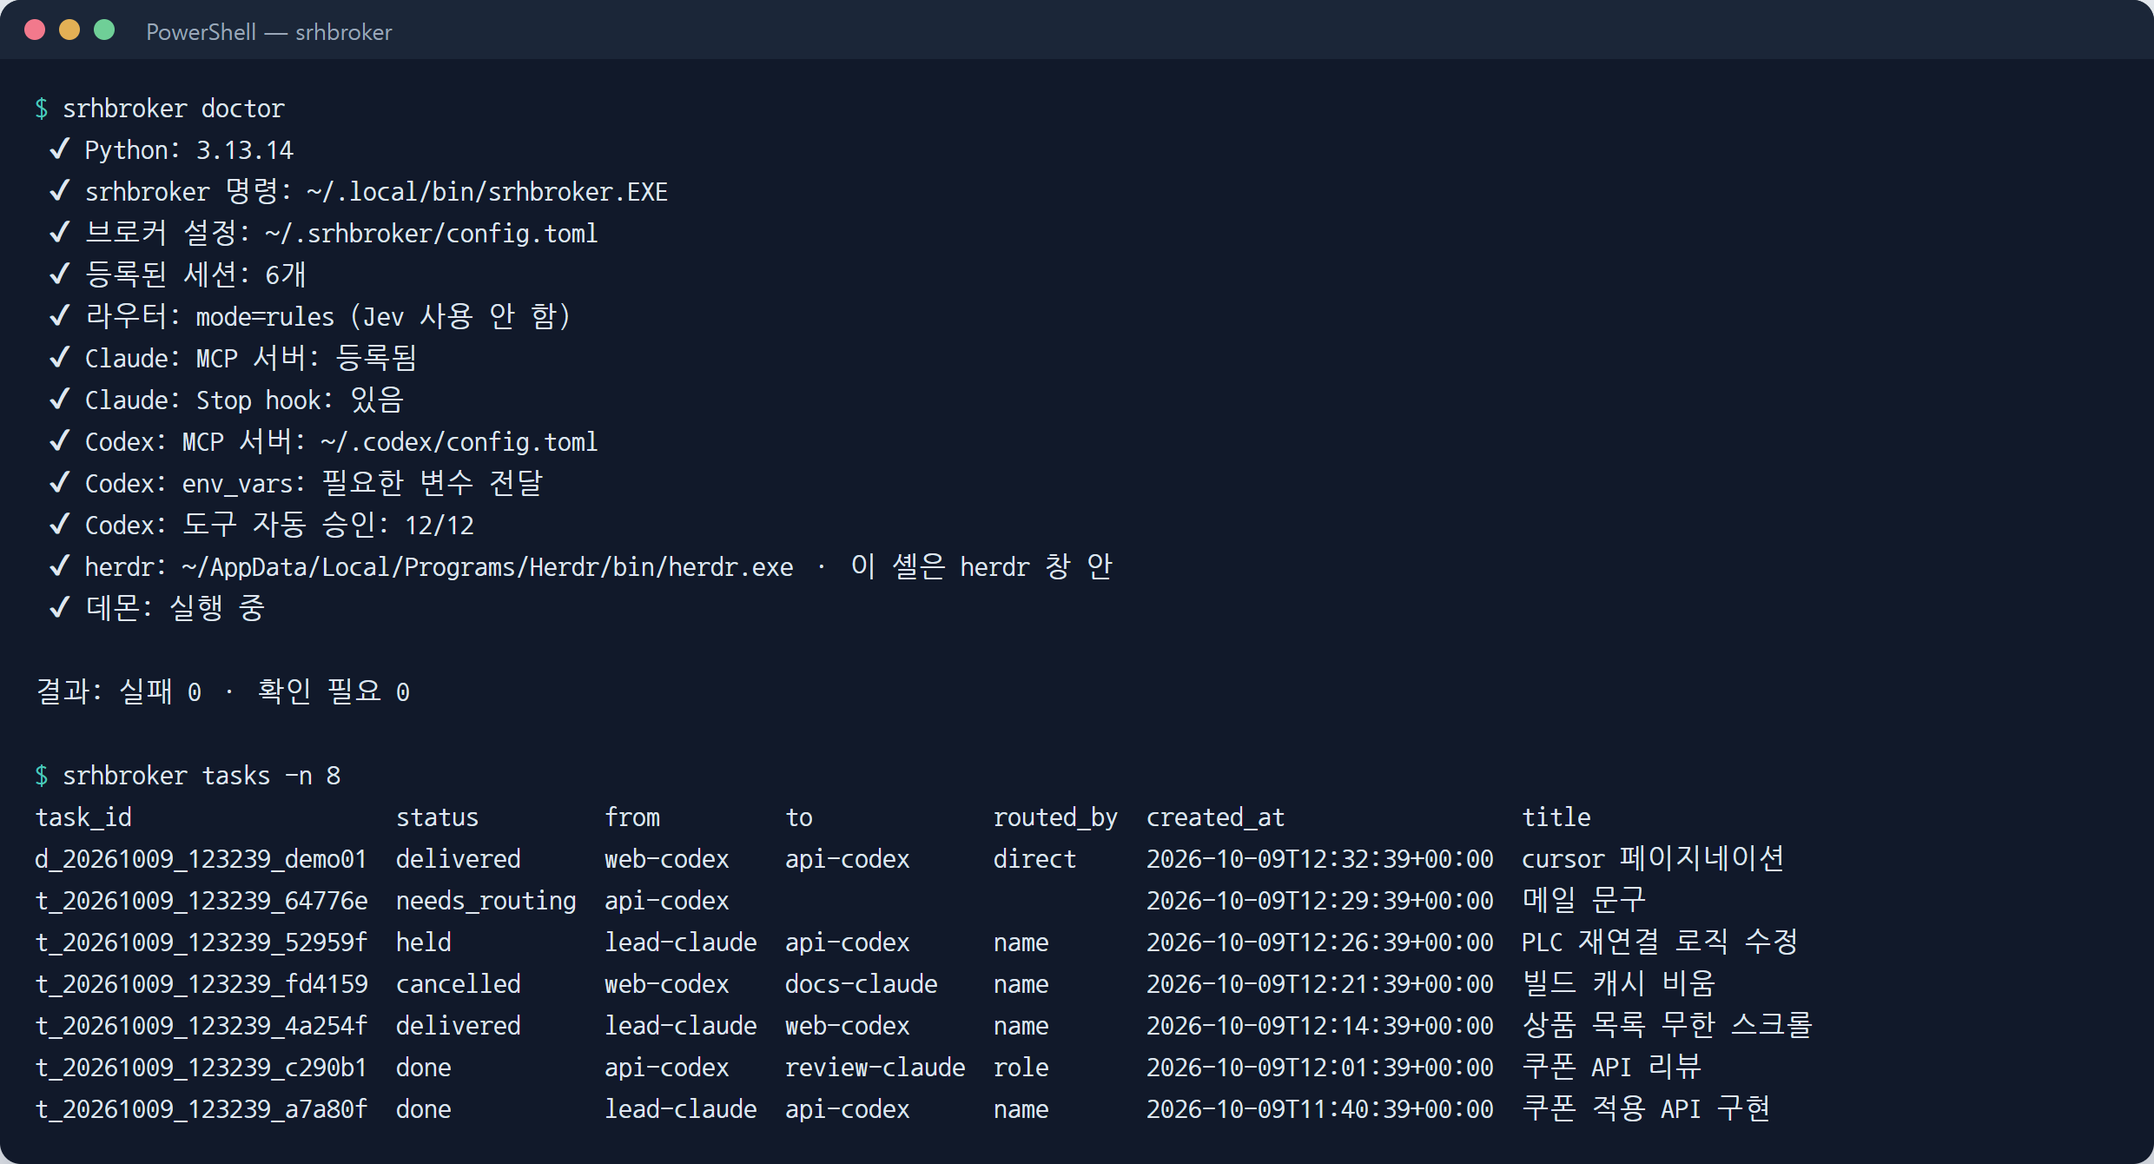
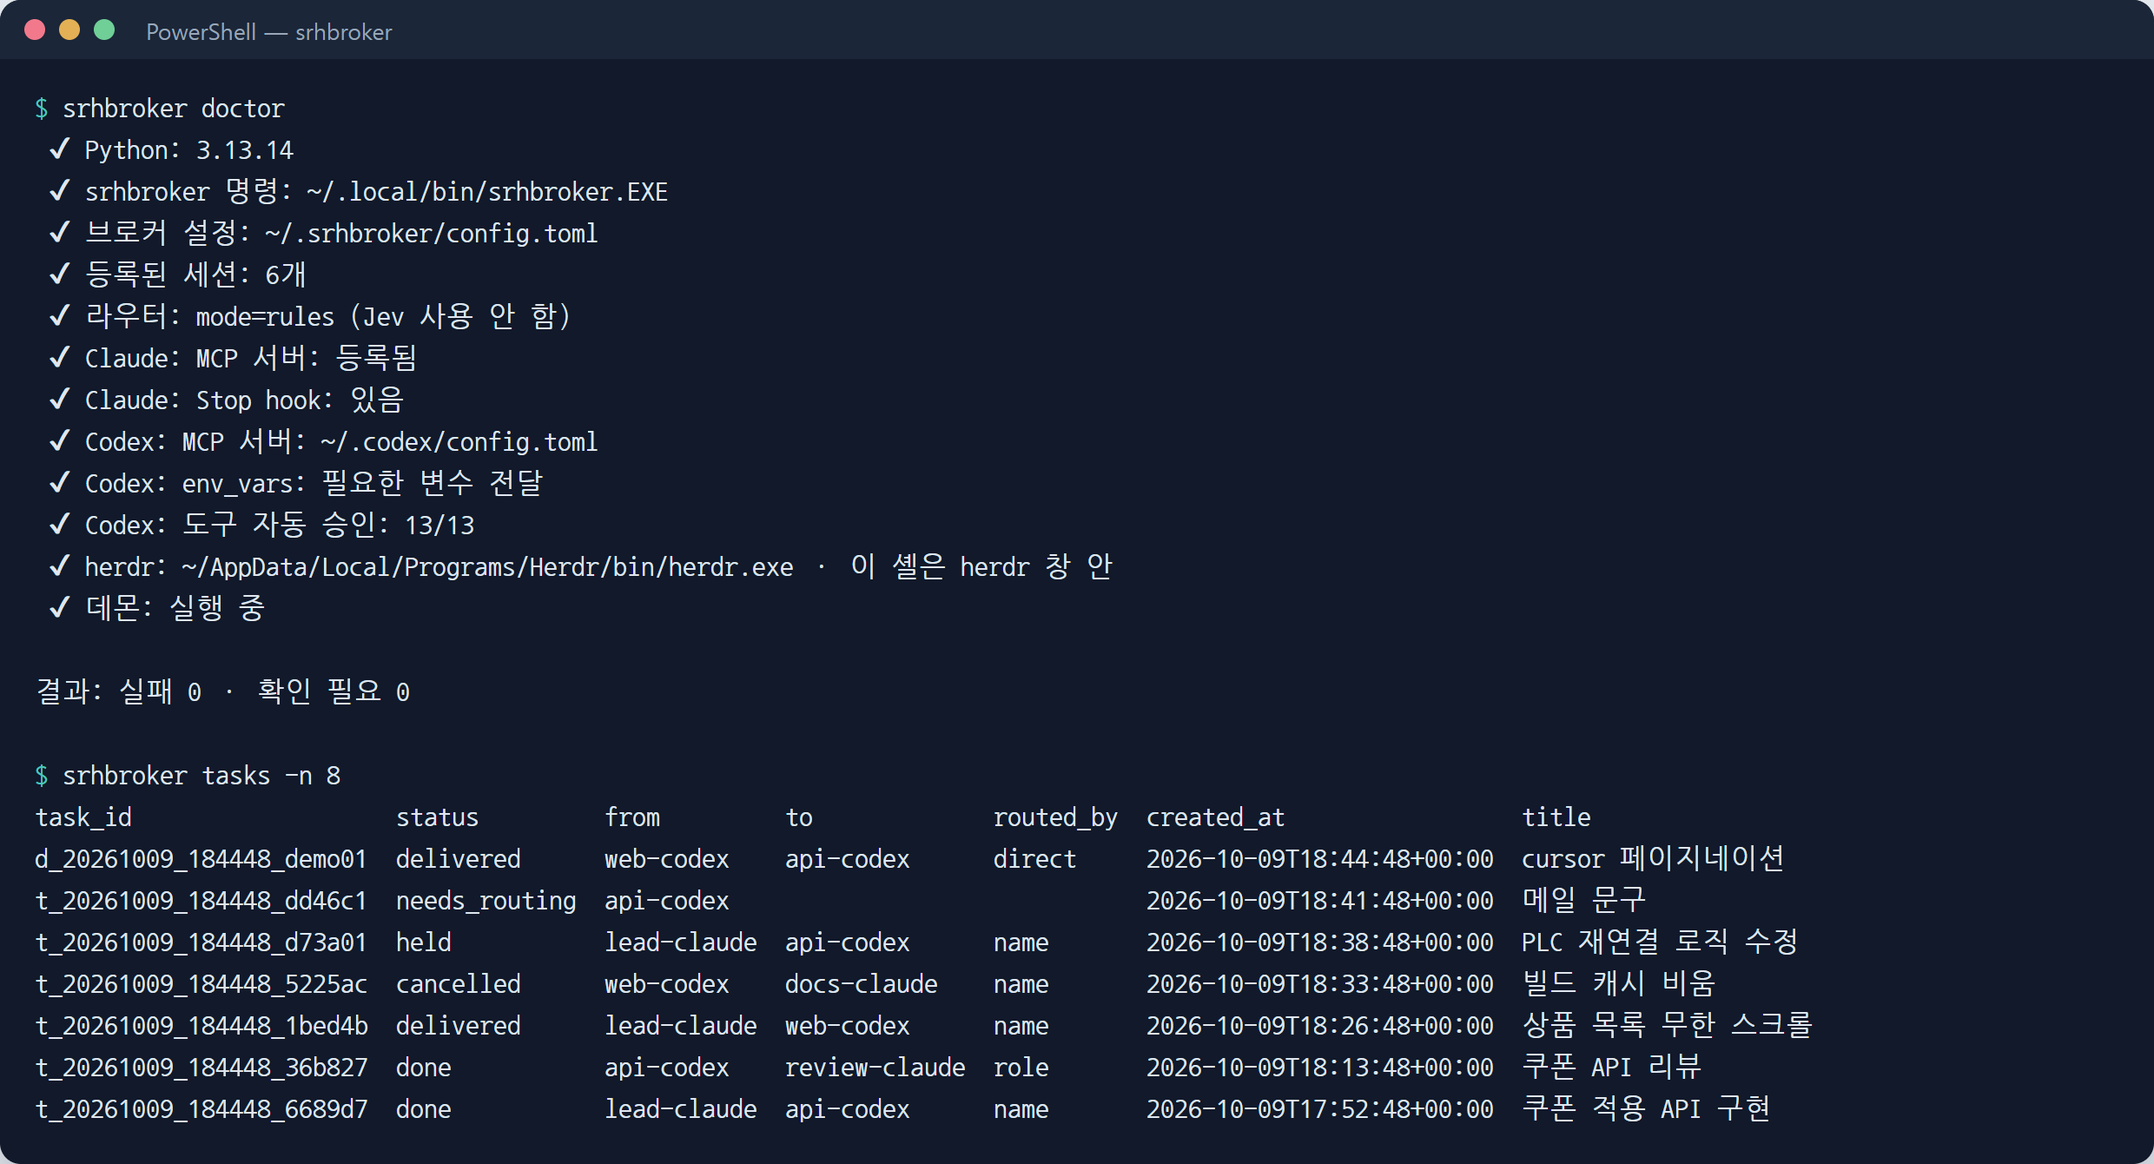
0.3.0: 등록 이름 바꾸기(rename), 대시보드 제목 Session Broker Dashboard, CHANGELOG
- rename: MCP 도구 rename(new_name, old_name?) · CLI srhbroker rename <지금> <새>. 세션 ID·역할·별칭·설명·권한 유지,
  옛 이름은 별칭, 작업·회신·직접 전달·관찰 기록 이관. 지워진 옛 이름 기록도 이어받기
- 이름 충돌: 열려 있는 다른 세션·다른 provider·worker 이름 거부, 세션 ID 없는 실수 항목은 정리 후 이어받음
- register(name, provider) 를 세션 안에서 부르면 지금 이 세션이면 세션 ID 에 연결(세션 ID 없는 항목 방지)
- setup codex --apply: 새 버전에서 늘어난 도구 자동 승인만 덧붙임
- 웹 대시보드 제목 "Session Broker Dashboard", README 화면 다시 렌더링
- CHANGELOG.md 추가

Claude-Session: https://claude.ai/code/session_01J9kaT7VMz3Rqmxdr2HNAYe

Changed region(s): [[0.0931, 0.7343, 0.1863, 0.9791], [0.621, 0.7343, 0.652, 0.9791]]

diff --git a/src/srhbroker/static/dashboard.html b/src/srhbroker/static/dashboard.html
@@ -3,7 +3,7 @@
 <head>
 <meta charset="utf-8">
 <meta name="viewport" content="width=device-width, initial-scale=1">
-<title>SRH Broker 교환대</title>
+<title>Session Broker Dashboard</title>
 <style>
 :root {
   --bg: #EEF1F4; --panel: #FFFFFF; --ink: #1C2430; --muted: #5E6B7A; --line: #D5DCE4; --hover: #F4F6F9;
@@ -174,7 +174,7 @@ details.raw summary { cursor: pointer; color: var(--muted); font-size: 12px; mar
 </head>
 <body>
 <header class="top">
-  <h1>SRH Broker 교환대</h1>
+  <h1>Session Broker Dashboard</h1>
   <div id="engine">불러오는 중…</div>
   <div id="clock"></div>
 </header>

diff --git a/tests/test_native.py b/tests/test_native.py
@@ -323,3 +323,76 @@ def test_hook_cli_never_fails(tmp_path, monkeypatch):
     monkeypatch.setattr(hooks, "claude_stop", lambda *a, **k: 1 / 0)
     assert cli.main(["hook", "claude-stop"]) == 0
     assert "ZeroDivisionError" in (tmp_path / "hook-error.log").read_text(encoding="utf-8")
+
+
+# ── 등록 이름 바꾸기 (rename) ─────────────────────────────────────────────
+
+async def test_rename_keeps_identity_and_moves_pending_refs(nb, homes):
+    ch, _ = homes
+    _claude_session(ch, C_ID, r"D:\proj", "alpha-cam")
+    nb.register_native(C_ID, roles=["planner"], aliases=["ac"], description="설명", sandbox="read-only")
+    nb.register("builder", "codex", roles=["builder"])
+    to_me = await nb.send("확인해 줘", sender="builder", to="alpha-cam")
+    mine = await nb.send("구현해 줘", sender="alpha-cam", to="builder")
+    notes: list[str] = []
+    s = nb.rename("alpha-cam-claude", old="alpha-cam", notes=notes)
+    assert (s.name, s.native_id, s.roles, s.description, s.sandbox.value) == ("alpha-cam-claude", C_ID, ["planner"], "설명", "read-only")
+    assert set(s.aliases) == {"ac", "alpha-cam"} and "옛 이름은 별칭" in notes[0]
+    assert nb.store.get_session("alpha-cam") is None and nb.identify(C_ID).name == "alpha-cam-claude"
+    assert [t["task_id"] for t in nb.inbox("alpha-cam-claude", mark=False)["incoming"]] == [to_me["task_id"]]
+    nb.store.inbox("builder", mark=True)
+    nb.reply(mine["task_id"], "끝", sender="builder")                    # 옛 이름으로 보낸 작업의 회신도 새 이름으로
+    assert [t["task_id"] for t in nb.inbox("alpha-cam-claude", mark=False)["replies"]] == [mine["task_id"]]
+    r = await nb.send("옛 이름으로", sender="builder", to="alpha-cam")    # 옛 이름(별칭)으로 보내도 닿는다
+    assert r["to"] == "alpha-cam-claude"
+
+
+def test_rename_conflicts(nb, homes):
+    ch, xh = homes
+    _claude_session(ch, C_ID, r"D:\a", "alpha-cam")
+    _claude_session(ch, C_ID2, r"D:\b", "other-cam")
+    nb.register_native(C_ID)
+    nb.register_native(C_ID2)
+    nb.herdr = _Panes(C_ID, C_ID2)
+    with pytest.raises(BrokerError, match="창이 지금 열려"):              # 열려 있는 다른 세션의 이름
+        nb.rename("other-cam", old="alpha-cam")
+    nb.register("codex-x", "codex")
+    with pytest.raises(BrokerError, match="codex 세션이 쓰고"):           # 다른 provider 이름
+        nb.rename("codex-x", old="alpha-cam")
+    nb.register("alpha-cam-claude", "claude", mode="interactive")       # 세션 ID 없는 실수 항목 → 정리하고 이어받음
+    notes: list[str] = []
+    assert nb.rename("alpha-cam-claude", old="alpha-cam", notes=notes).native_id == C_ID
+    assert "정리하고 이어받았습니다" in notes[0]
+
+
+async def test_rename_adopts_records_of_deleted_old_name(nb, homes):
+    """실제로 겪은 경우: 옛 이름을 unregister 하고 새 이름으로 다시 등록 → 옛 이름 기록·미확인 회신을 이어받는다."""
+    ch, _ = homes
+    _claude_session(ch, C_ID, r"D:\proj", "alpha-cam")
+    nb.register_native(C_ID)
+    nb.register("builder", "codex")
+    mine = await nb.send("구현해 줘", sender="alpha-cam", to="builder")
+    nb.store.inbox("builder", mark=True)
+    nb.reply(mine["task_id"], "끝", sender="builder")
+    nb.store.remove_session("alpha-cam")
+    nb.register_native(C_ID, name="alpha-cam-claude")
+    assert nb.inbox("alpha-cam-claude", mark=False)["replies"] == []      # 끊긴 상태
+    notes: list[str] = []
+    s = nb.rename("alpha-cam-claude", old="alpha-cam", notes=notes)
+    assert "alpha-cam" in s.aliases and "기록" in notes[0]
+    assert [t["task_id"] for t in nb.inbox("alpha-cam-claude", mark=False)["replies"]] == [mine["task_id"]]
+
+
+async def test_mcp_register_with_provider_links_own_session_and_rename_tool(mcp_nb, monkeypatch):
+    monkeypatch.setenv("CLAUDE_CODE_SESSION_ID", C_ID)
+    mcp_nb.register("other", "codex")
+    async with Client(mcp_server.mcp) as c:
+        reg = _data(await c.call_tool("register", {"name": "project-lead", "provider": "claude"}))
+        assert reg["has_native_id"] is True                              # 세션 ID 없는 별도 항목을 만들지 않는다
+        out = _data(await c.call_tool("rename", {"new_name": "project-lead-claude"}))
+        assert out["name"] == "project-lead-claude" and out["notes"]
+        who = _data(await c.call_tool("whoami", {}))
+        assert who["self"] == "project-lead-claude"
+        res = await c.call_tool("rename", {"new_name": "x", "old_name": "other"})
+        assert res.is_error and "다른 세션" in res.content[0].text
+    assert [s.name for s in mcp_nb.store.list_sessions()] == ["other", "project-lead-claude"]

diff --git a/src/srhbroker/store.py b/src/srhbroker/store.py
@@ -221,15 +221,37 @@ class Store:
             c.execute("DELETE FROM aliases WHERE name=?", (old,))
             c.execute("UPDATE sessions SET name=?, aliases=?, updated_at=? WHERE name=?", (new, _j(aliases), now_iso(), old))
             c.executemany("INSERT INTO aliases(alias, name) VALUES (?,?)", [(x, new) for x in aliases])
-            for sql in ("UPDATE tasks SET to_addr=? WHERE to_addr=?", "UPDATE tasks SET from_addr=? WHERE from_addr=?",
-                        "UPDATE direct_queue SET to_name=? WHERE to_name=?",
-                        "UPDATE direct_queue SET from_name=? WHERE from_name=?",
-                        "UPDATE push_log SET session=? WHERE session=?",
-                        "UPDATE flow_log SET from_name=? WHERE from_name=?", "UPDATE flow_log SET to_name=? WHERE to_name=?"):
-                c.execute(sql, (new, old))
+            self._move_refs(c, old, new)
         s = self.get_session(new)
         assert s is not None
         return s
+
+    # 이름으로 묶인 기록: 작업 보낸 쪽·받는 쪽, 직접 전달, 푸시 기록, 관찰 기록
+    _NAME_REFS = ("UPDATE tasks SET to_addr=? WHERE to_addr=?", "UPDATE tasks SET from_addr=? WHERE from_addr=?",
+                  "UPDATE direct_queue SET to_name=? WHERE to_name=?", "UPDATE direct_queue SET from_name=? WHERE from_name=?",
+                  "UPDATE push_log SET session=? WHERE session=?",
+                  "UPDATE flow_log SET from_name=? WHERE from_name=?", "UPDATE flow_log SET to_name=? WHERE to_name=?")
+
+    def _move_refs(self, c: sqlite3.Connection, old: str, new: str) -> int:
+        return sum(c.execute(sql, (new, old)).rowcount for sql in self._NAME_REFS)
+
+    def adopt_name(self, old: str, new: str) -> int:
+        """등록에서 지워졌지만 기록이 남은 옛 이름을 세션 new 가 이어받는다: 기록을 옮기고 옛 이름을 별칭으로 붙인다."""
+        with self.tx() as c:
+            if c.execute("SELECT 1 FROM sessions WHERE name=?", (old,)).fetchone():
+                raise BrokerError(f"'{old}' 은 등록된 세션입니다 — rename 으로 바꾸세요")
+            row = c.execute("SELECT * FROM sessions WHERE name=?", (new,)).fetchone()
+            if not row:
+                raise BrokerError(f"등록되지 않은 세션 '{new}'")
+            owner = c.execute("SELECT name FROM aliases WHERE alias=?", (old,)).fetchone()
+            if owner and owner["name"] != new:
+                raise BrokerError(f"'{old}' 은 세션 '{owner['name']}' 의 별칭입니다")
+            n = self._move_refs(c, old, new)
+            if not owner:
+                aliases = [*(_uj(row["aliases"]) or []), validate_name(old)]
+                c.execute("UPDATE sessions SET aliases=?, updated_at=? WHERE name=?", (_j(aliases), now_iso(), new))
+                c.execute("INSERT INTO aliases(alias, name) VALUES (?,?)", (validate_name(old), new))
+        return n
 
     def remove_session(self, name: str) -> bool:
         with self.tx() as c:

diff --git a/src/srhbroker/service.py b/src/srhbroker/service.py
@@ -138,6 +138,40 @@ class Broker:
                              description=description or (keep.description if keep else ""),
                              cwd=ns.cwd, native_id=ns.id, sandbox=sandbox, model=model)
 
+    def rename(self, new: str, *, old: str | None = None, native_id: str | None = None,
+               notes: list[str] | None = None) -> Session:
+        """등록 이름을 바꾼다. 세션 ID·provider·작업 폴더·역할·별칭·설명·권한은 그대로 두고 이름만 바꾼다.
+        옛 이름은 별칭으로 남고, 그 이름 앞으로 쌓인 작업·회신·직접 전달 기록도 새 이름으로 옮긴다.
+        old 를 주지 않으면 native_id 로 찾은 '지금 이 세션'. old 가 등록에서 지워졌지만 기록이 남은 이름이면
+        그 기록을 new 세션이 이어받는다(옛 이름은 별칭)."""
+        notes = notes if notes is not None else []
+        new = validate_name(new)
+        if old is None:
+            cur = self.identify(native_id)
+            if not cur:
+                raise BrokerError("이 세션은 아직 등록되지 않았습니다 — 먼저 register() 로 등록하세요")
+            old = cur.name
+        r = self.store.resolve_name(old)
+        if r is None:
+            n = self.store.adopt_name(old, new)
+            notes.append(f"등록에서 지워진 옛 이름 '{old}' 의 기록 {n}건을 '{new}' 로 옮기고 '{old}' 를 별칭으로 붙였습니다.")
+            s = self.store.get_session(new)
+            assert s is not None
+            return s
+        src = r[0]
+        if src.name == new:
+            notes.append(f"이미 '{new}' 입니다.")
+            return src
+        taken = self.store.get_session(new)
+        if taken and not (taken.native_id and taken.native_id == src.native_id):   # 같은 세션의 중복 항목은 정리
+            self._check_takeover(taken, native.NativeSession(src.provider, src.native_id or "", None, src.cwd, 0))
+            notes.append(f"이름 '{new}' 을 쓰던 항목({taken.provider} {(taken.native_id or '세션 ID 없음')[:8]})은 "
+                         "창이 닫혀 있거나 세션 ID 가 없어 정리하고 이어받았습니다.")
+        s = self.store.rename_session(src.name, new, replace=bool(taken))
+        notes.append(f"'{src.name}' → '{new}': 세션 ID·역할·별칭·설명·권한은 그대로이고, 옛 이름은 별칭으로 남으며 "
+                     "그 이름 앞 작업·회신 기록도 옮겼습니다.")
+        return s
+
     def _check_takeover(self, taken: Session, ns: native.NativeSession) -> None:
         """다른 세션이 쓰던 이름을 이 세션이 이어받아도 되는지. 안 되면 사용자가 정하도록 오류."""
         if taken.provider != ns.provider:

diff --git a/src/srhbroker/cli.py b/src/srhbroker/cli.py
@@ -6,6 +6,7 @@
   srhbroker register <이름> <provider> [--mode worker|interactive] [--role r]... [--alias a]...
   srhbroker register --session <세션ID> [--role r]...   기존 Claude/Codex 세션 등록 (이름 = rename 이름)
   srhbroker discover [--days 7] [--all]                 등록할 수 있는 기존 세션 목록
+  srhbroker rename <지금 이름> <새 이름>               등록 이름 바꾸기 (세션 ID·역할·별칭 유지, 옛 이름은 별칭)
   srhbroker deliver <이름> [--wait]                     받은 메시지를 herdr 창에 바로 넣기 (바쁘면 쉴 때까지 대기)
   srhbroker status                                      데몬·herdr·세션별 창 연결·대기 작업 점검 (읽기 전용)
   srhbroker watch [--interval 3]                        터미널 대시보드 (herdr 창에 띄워 두기)
@@ -160,6 +161,9 @@ def main(argv: list[str] | None = None) -> int:
 
     u = sub.add_parser("unregister")
     u.add_argument("name")
+    rn = sub.add_parser("rename", help="등록 이름 바꾸기 (세션 ID·역할·별칭 유지, 옛 이름은 별칭, 기록 이관)")
+    rn.add_argument("old", help="지금 이름 (등록에서 지워진 옛 이름이면 그 기록을 new 세션이 이어받음)")
+    rn.add_argument("new")
 
     sub.add_parser("sessions")
     t = sub.add_parser("tasks")
@@ -325,6 +329,9 @@ def _dispatch(a: argparse.Namespace) -> int:
                          "name": reg.name if reg else (normalize_name(ns.title) or "(직접 지정)"),
                          "registered": "✔" if reg else "", "cwd": ns.cwd or ""})
         _table(rows, ["updated", "provider", "session_id", "title", "name", "registered", "cwd"])
+    elif a.cmd == "rename":
+        notes = []
+        _print({**b.rename(a.new, old=a.old, notes=notes).public(), "notes": notes})
     elif a.cmd == "unregister":
         print("삭제됨" if b.store.remove_session(a.name) else "없음")
     elif a.cmd == "sessions":

diff --git a/src/srhbroker/onboard.py b/src/srhbroker/onboard.py
@@ -20,7 +20,7 @@ from typing import Any
 
 from . import native
 
-MCP_TOOLS = ["sessions", "whoami", "register", "send", "route", "approve", "inbox", "reply", "status", "wait",
+MCP_TOOLS = ["sessions", "whoami", "register", "rename", "send", "route", "approve", "inbox", "reply", "status", "wait",
              "cancel", "recent"]
 CODEX_ENV_VARS = ["SRHBROKER_SELF", "SRHBROKER_TASK", "SRHBROKER_HOME", "TYPESAFE_API_KEY",
                   "HERDR_ENV", "HERDR_SOCKET_PATH", "HERDR_BIN_PATH", "HERDR_HOME", "HERDR_PANE_ID", "HERDR_TAB_ID",
@@ -126,6 +126,15 @@ def apply_codex() -> list[str]:
         out = ["MCP 서버: 이미 있음 — 기존 항목은 바꾸지 않습니다"]
         if missing:
             out.append(f"주의: env_vars 에 빠진 변수 {missing} — 직접 추가하세요 (Codex 는 환경 변수를 넘기지 않음)")
+        new_tools = [t for t in MCP_TOOLS if t not in (srv.get("tools") or {})]
+        if new_tools:   # 새 버전에서 늘어난 도구만 자동 승인 표를 덧붙인다 (기존 표는 그대로)
+            bak = _backup(path)
+            with path.open("a", encoding="utf-8") as f:
+                lines = ["", "# srhbroker 새 도구 자동 승인 (setup codex --apply)"]
+                for t in new_tools:
+                    lines += [f"[mcp_servers.srhbroker.tools.{t}]", 'approval_mode = "approve"', ""]
+                f.write("\n".join(lines) + "\n")
+            out.append(f"새 도구 자동 승인 추가: {', '.join(new_tools)}" + (f" (백업 {bak.name})" if bak else ""))
         return out
     exe = exe_command()
     block = ["", "# srhbroker — Claude ↔ Codex 세션 브로커 (srhbroker setup codex --apply 로 추가)",

diff --git a/tests/test_onboard.py b/tests/test_onboard.py
@@ -79,3 +79,14 @@ def test_demo_seeds_separate_home_and_protects_real_home(tmp_path, monkeypatch, 
     for st in ("done", "delivered", "held", "needs_routing", "cancelled"):
         assert st in rows
     assert not (real / "broker.db").exists()
+
+
+def test_apply_codex_adds_only_missing_tool_approvals(homes):
+    _, xh = homes
+    (xh / "config.toml").write_text('[mcp_servers.srhbroker]\ncommand = "srhbroker"\nargs = ["mcp"]\n'
+                                    '[mcp_servers.srhbroker.tools.send]\napproval_mode = "approve"\n', encoding="utf-8")
+    out = onboard.apply_codex()
+    assert any("새 도구 자동 승인 추가" in x for x in out)
+    tools = tomllib.loads((xh / "config.toml").read_text(encoding="utf-8"))["mcp_servers"]["srhbroker"]["tools"]
+    assert set(tools) == set(onboard.MCP_TOOLS)
+    assert not any("새 도구" in x for x in onboard.apply_codex())        # 다시 적용하면 추가할 것 없음

diff --git a/src/srhbroker/dashboard.py b/src/srhbroker/dashboard.py
@@ -139,7 +139,7 @@ def serve(b: Any, port: int = 8765, open_browser: bool = False, new_token: bool 
     token = _token(b.cfg.home, new_token)
     httpd = ThreadingHTTPServer(("127.0.0.1", port), make_handler(b, token, port))
     url = f"http://127.0.0.1:{port}/?t={token}"
-    print(f"SRH Broker 대시보드: {url}\n(이 주소의 토큰이 있어야 열립니다. 재시작해도 같은 주소 — 바꾸려면 --new-token. "
+    print(f"Session Broker Dashboard: {url}\n(이 주소의 토큰이 있어야 열립니다. 재시작해도 같은 주소 — 바꾸려면 --new-token. "
           "Ctrl+C 로 종료)", flush=True)
     if open_browser:
         webbrowser.open(url)

diff --git a/tests/test_monitor.py b/tests/test_monitor.py
@@ -131,7 +131,7 @@ async def test_dashboard_security_and_actions(dash):
     origin = f"http://127.0.0.1:{port}"
     assert _req(port, "/")[0] == 403
     code, page = _req(port, f"/?t={token}")
-    assert code == 200 and "교환대".encode() in page
+    assert code == 200 and b"<title>Session Broker Dashboard</title>" in page
     assert _req(port, "/api/snapshot")[0] == 403
     assert _req(port, "/api/snapshot", token=token, host="evil.example")[0] == 403           # DNS 리바인딩
     code, body = _req(port, "/api/snapshot", token=token)

diff --git a/src/srhbroker/__init__.py b/src/srhbroker/__init__.py
@@ -1,3 +1,3 @@
 """SRH Session Broker — Claude Code ↔ Codex 세션 간 작업 위임·메시지 브로커."""
 
-__version__ = "0.2.1"
+__version__ = "0.3.0"
